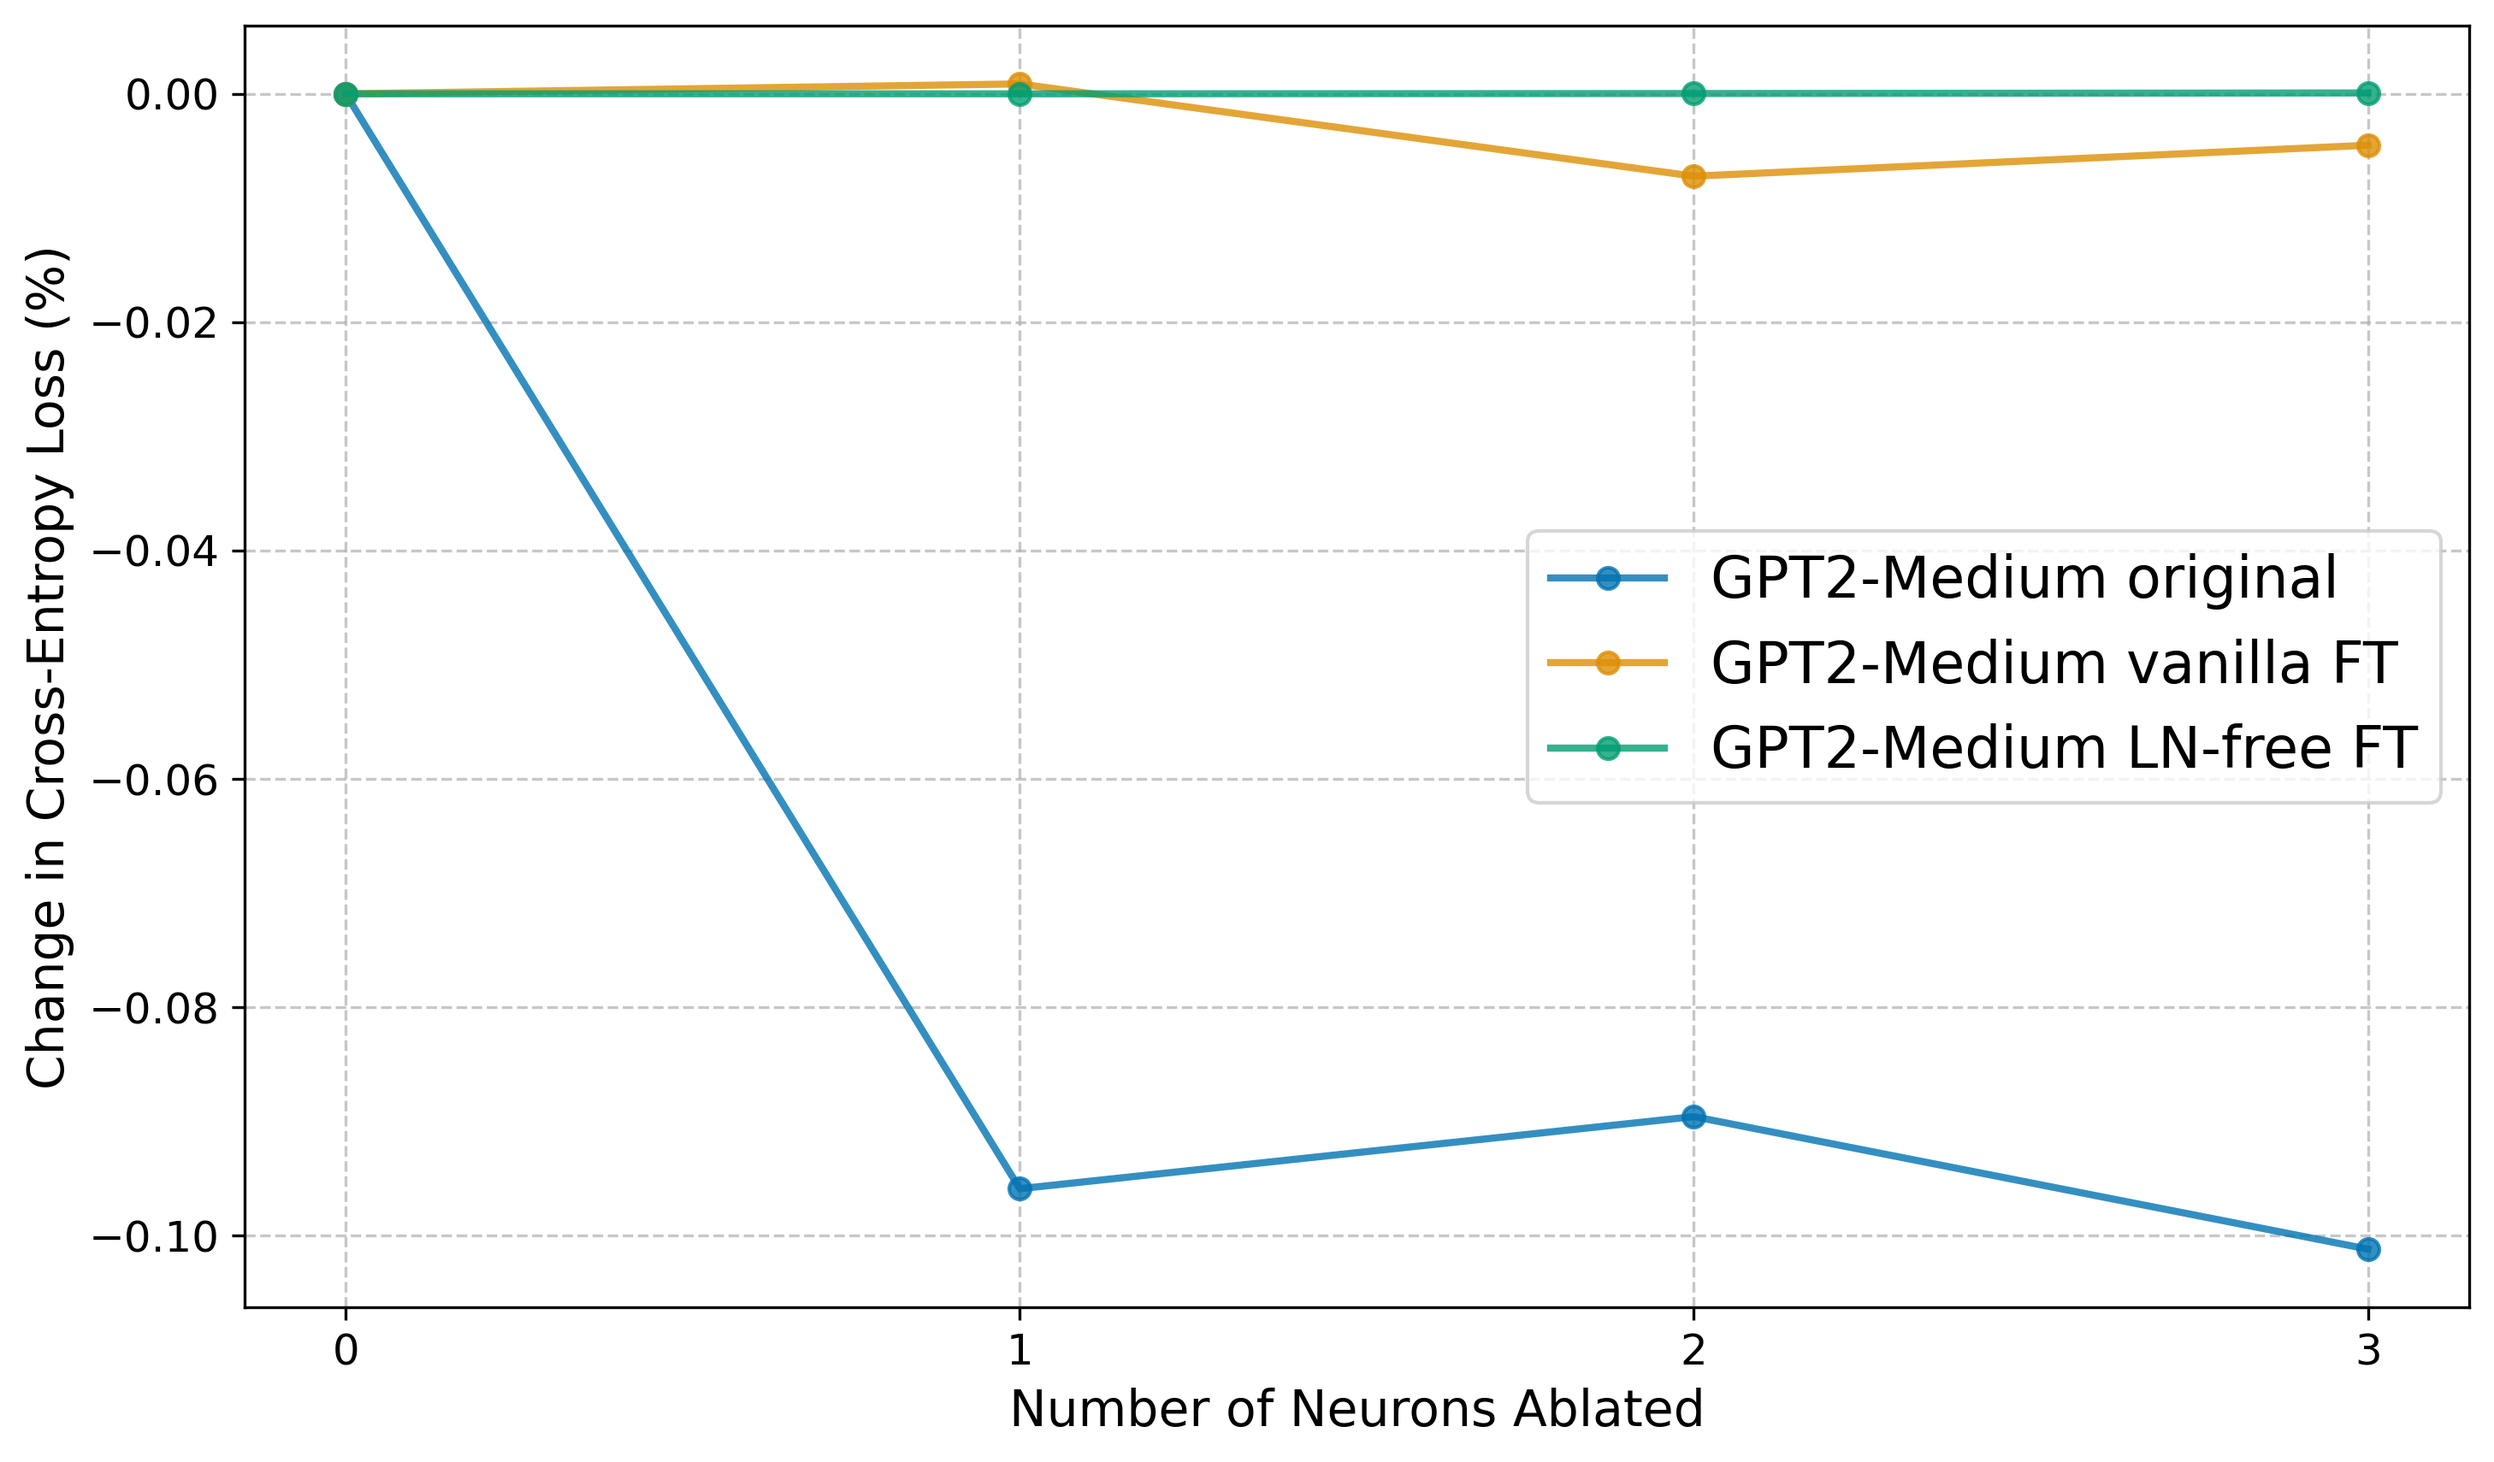
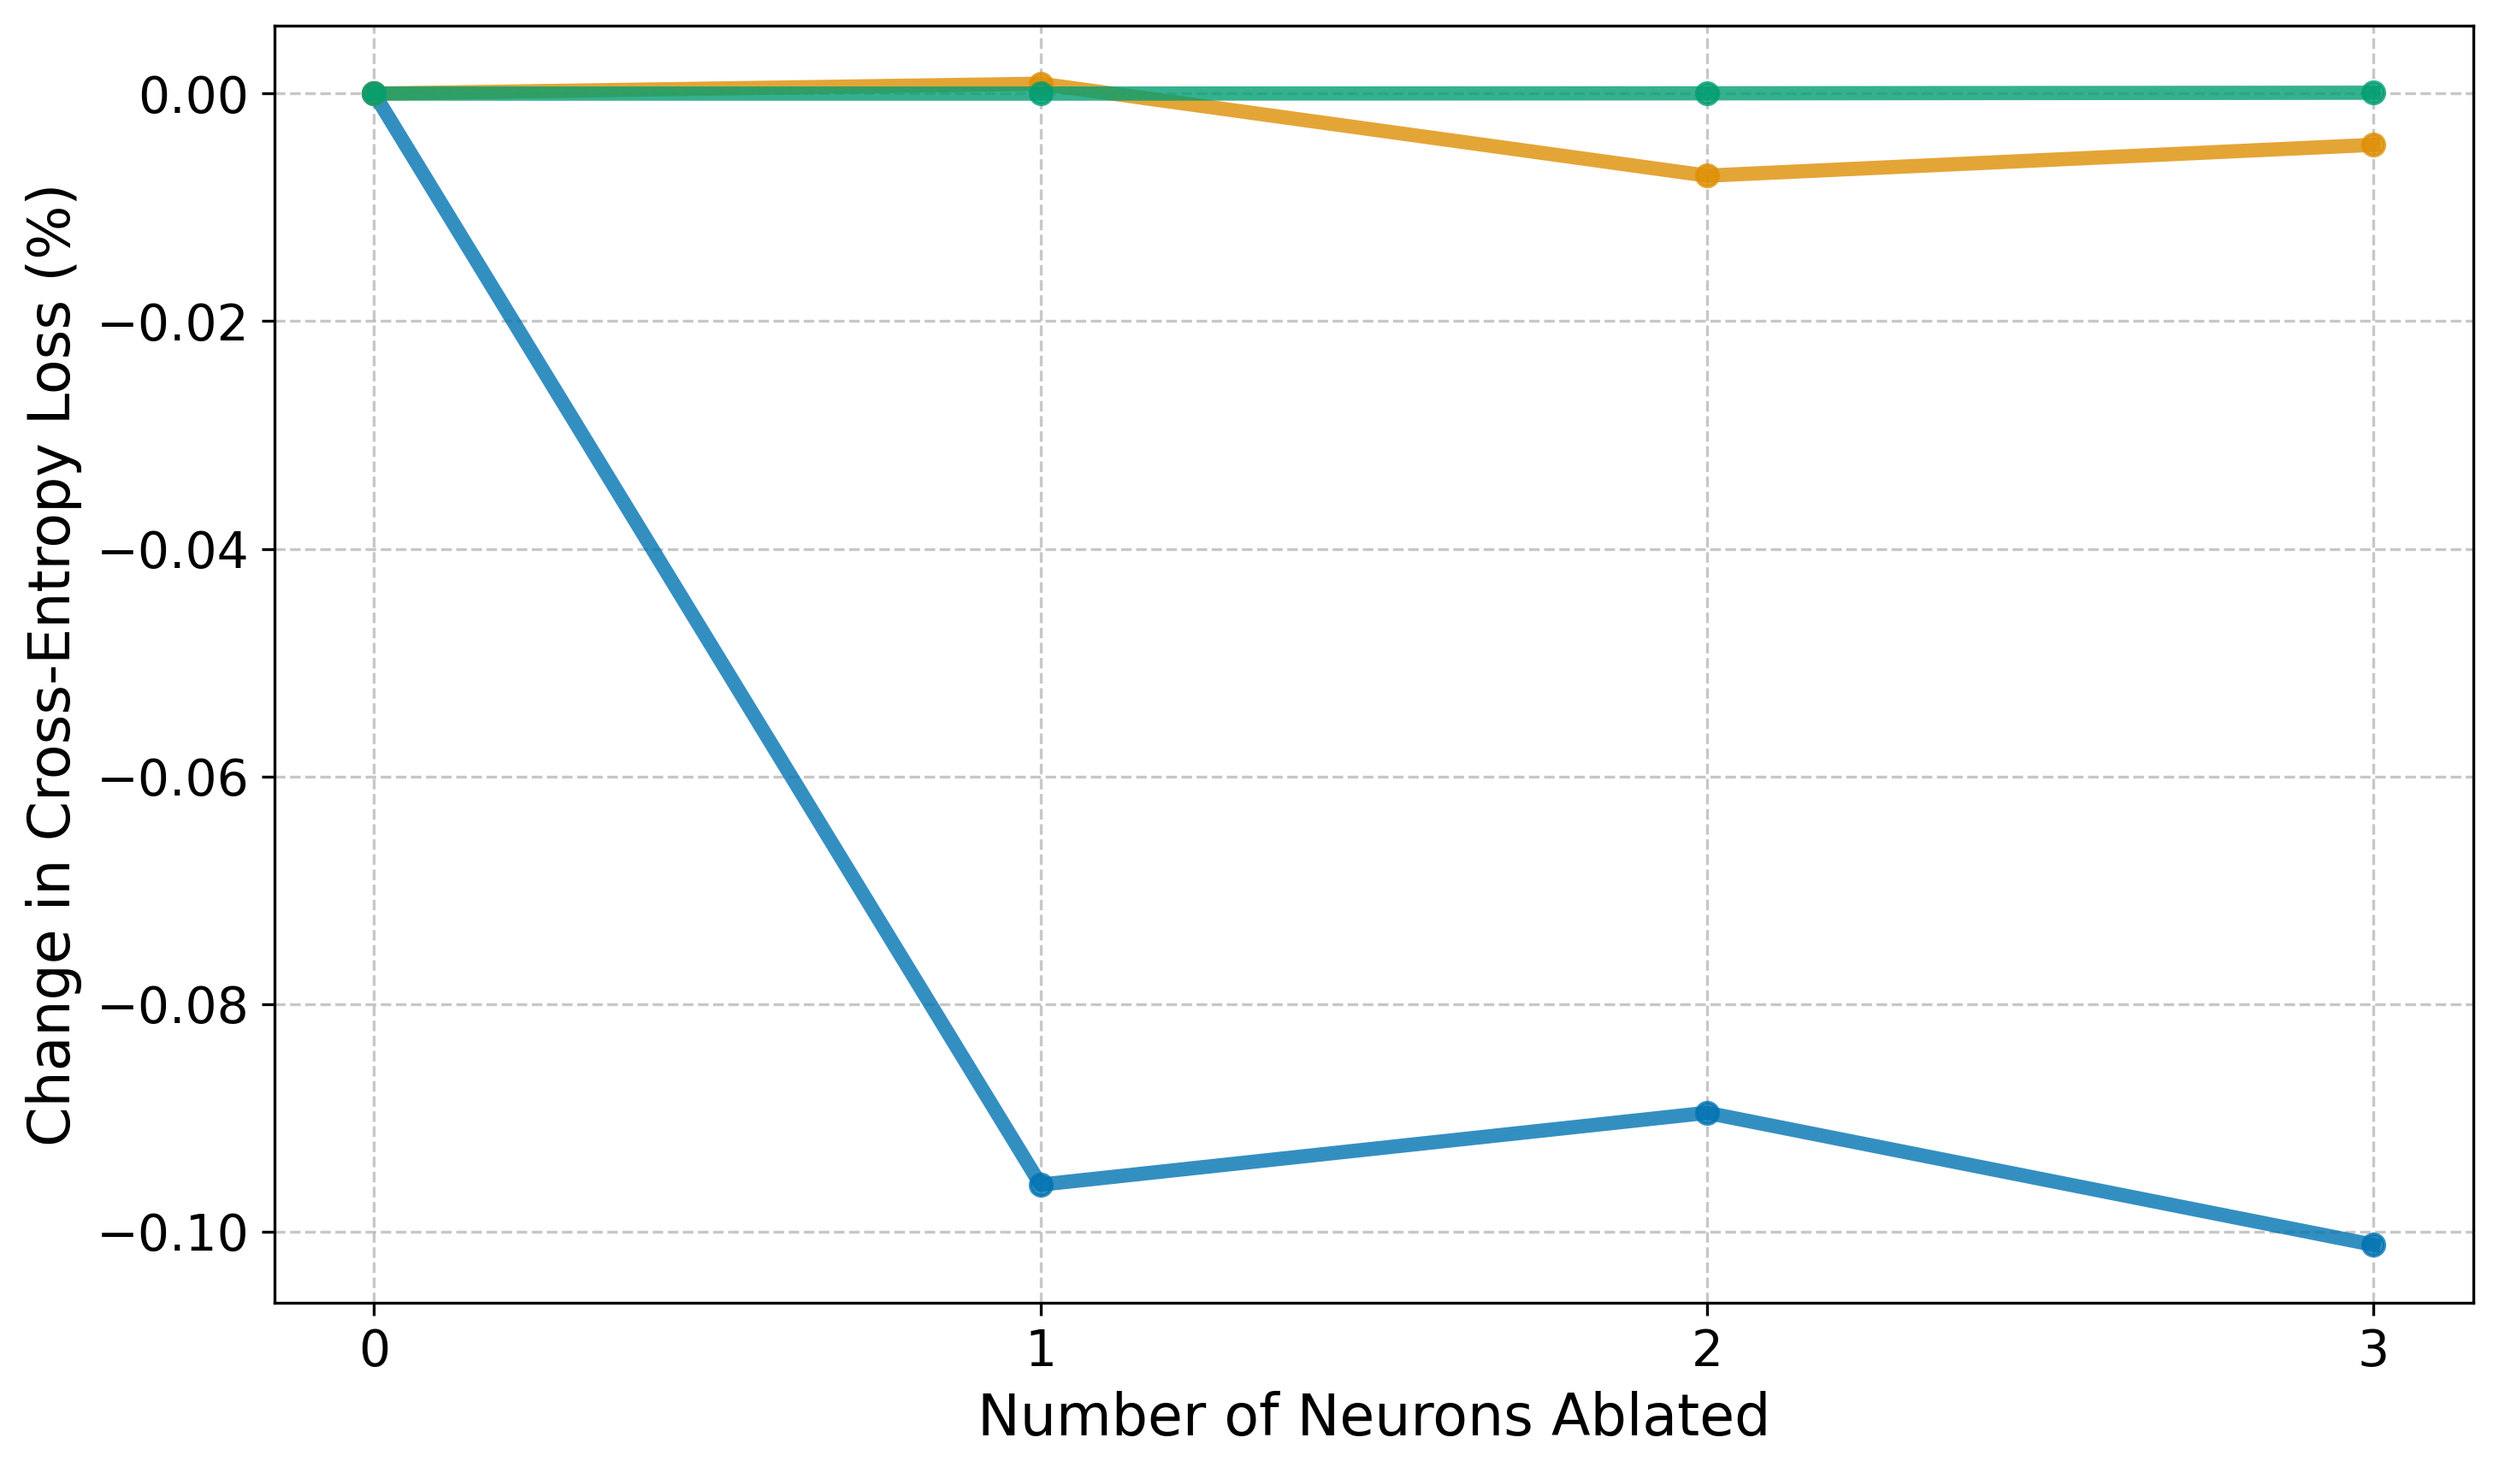
entropy neurons finalised

diff --git a/mech_interp/entropy_neurons/cumulative_ablation.py b/mech_interp/entropy_neurons/cumulative_ablation.py
@@ -315,10 +315,13 @@ class CumulativeAblation:
         return loss, entropy
    
 if __name__ == "__main__":
-    #entropy_neuron_indices = [584, 2123, 2870]  # Small
-    entropy_neuron_indices = [3144, 1083, 1108] # Medium
+    model_indices = {
+        'small' : [584, 2123, 2870],
+        'medium': [3144, 1083, 1108]
+    }
     models = ['baseline', 'finetuned', 'noLN']
     model_size = 'medium'
+    entropy_neuron_indices = model_indices[model_size]
     save_path = f'figures/{model_size}'
     os.makedirs(save_path, exist_ok=True)
     model_results = {}
@@ -381,16 +384,16 @@ if __name__ == "__main__":
         num_ablated = list(range(len(ce_losses_mean)))
         
         # Plot relative CE Loss change
-        plt.plot(num_ablated, ce_relative_change, 'o-', lw=2,
+        plt.plot(num_ablated, ce_relative_change, 'o-', lw=4,
                  color=colors[idx], alpha=0.8, label=model_labels[model_type])
     
     plt.gca().xaxis.set_major_locator(MaxNLocator(integer=True))
-    plt.xlabel('Number of Neurons Ablated', fontsize=14)
-    plt.ylabel('Change in Cross-Entropy Loss (%)', fontsize=14)
+    plt.xlabel('Number of Neurons Ablated', fontsize=16)
+    plt.ylabel('Change in Cross-Entropy Loss (%)', fontsize=16)
     #plt.title('Relative Effect of Neuron Ablation on Cross-Entropy Loss', fontsize=16)
-    plt.tick_params(axis='both', which='major', labelsize=12)
+    plt.tick_params(axis='both', which='major', labelsize=14)
     plt.grid(True, linestyle='--', alpha=0.7)
-    plt.legend(fontsize=16)
+    #plt.legend(fontsize=16)
     
     # Adjust layout
     plt.tight_layout()
@@ -414,16 +417,16 @@ if __name__ == "__main__":
         num_ablated = list(range(len(entropies_mean)))
         
         # Plot relative Entropy change
-        plt.plot(num_ablated, entropy_relative_change, 'o-', lw=2,
+        plt.plot(num_ablated, entropy_relative_change, 'o-', lw=4,
                  color=colors[idx], alpha=0.8, label=model_labels[model_type])    
 
     plt.gca().xaxis.set_major_locator(MaxNLocator(integer=True))
-    plt.xlabel('Number of Neurons Ablated', fontsize=14)
-    plt.ylabel('Change in Entropy (%)', fontsize=14)
+    plt.xlabel('Number of Neurons Ablated', fontsize=16)
+    plt.ylabel('Change in Entropy (%)', fontsize=16)
     #plt.title('Relative Effect of Neuron Ablation on Entropy', fontsize=16)
-    plt.tick_params(axis='both', which='major', labelsize=12)
+    plt.tick_params(axis='both', which='major', labelsize=14)
     plt.grid(True, linestyle='--', alpha=0.7)
-    plt.legend(fontsize=16)
+    plt.legend(fontsize=16, loc='middle right')
     
     # Adjust layout
     plt.tight_layout()

diff --git a/mech_interp/entropy_neurons/svd_comparison.py b/mech_interp/entropy_neurons/svd_comparison.py
@@ -59,6 +59,7 @@ for model_name, model in model_factory.models.items():
     # Extract weights
     residual_stream_dim = model.cfg.d_model
     Wout = model.blocks[-1].mlp.W_out
+    bout = model.blocks[-1].mlp.b_out
     Wu = model.unembed.W_U
     L2_Wout = t.norm(Wout, dim=1, keepdim=True)
     L2_Wu = t.norm(Wu, dim=0, keepdim=True)
@@ -82,7 +83,8 @@ for model_name, model in model_factory.models.items():
     
     # Store results for this model
     results[model_name] = {
-        'Wout': Wout,
+        'Wout': Wout.cpu().numpy(),
+        'bout': bout.cpu().numpy(),
         'Wu': Wu,
         'L2_Wout': L2_Wout_array,
         'L2_Wu': L2_Wu_array,
@@ -114,7 +116,25 @@ for model_name, model in model_factory.models.items():
     results[model_name]['cos_sim'] = cos_sim
     results[model_name]['squared_cos_sim'] = squared_cos_sim
     results[model_name]['cum_squared_cos_sim'] = cum_squared_cos_sim
+
     
+# %%
+for model_name in model_names:
+    # Get the Wout and bout values
+    Wout = results[model_name]['Wout']
+    bout = results[model_name]['bout']
+    neuron_indices = results[model_name]['top_indices'][0:1]
+    
+    # Print the bias for each neuron
+    print("Printing 'effective' bias for each entropy neuron")
+    for i, idx in enumerate(neuron_indices):
+        neuron_weights = Wout[idx, :]
+        norm_weights = neuron_weights / np.linalg.norm(neuron_weights)
+        effective_bias = np.dot(norm_weights, bout)
+        # Print the result
+        print(f"{model_name:<10} : neuron {idx}\t{effective_bias:.6f}")    
+
+        
 # %%
 # Combined plot with all models' W_out norms on a single histogram
 plt.figure(figsize=(10, 6))
